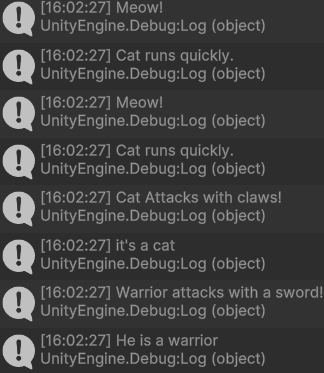
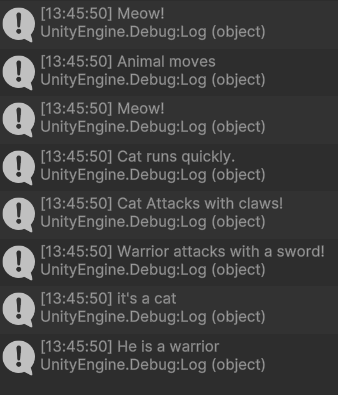
Final Commit for assignment 29

Changed region(s): [[0.0, 0.3834, 1.0, 1.0], [0.0, 0.0, 0.8333, 0.3539]]

diff --git a/Assets/Assignment 29/Part 4/Animal.cs b/Assets/Assignment 29/Part 4/Animal.cs
@@ -1,38 +1,41 @@
  using UnityEngine;
- public class Animal
-    {
-        public virtual void MakeSound()
+ namespace Assignment29
+ {
+    public class Animal
         {
-            Debug.Log("Animal sound");
+            public virtual void MakeSound()
+            {
+                Debug.Log("Animal sound");
+            }
+            public void Move()
+            {
+                Debug.Log("Animal moves");
+            }
         }
-        public void Move()
+        public class Cat : Animal ,ICanFight
         {
-            Debug.Log("Animal moves");
+            public override void MakeSound()
+            {
+                Debug.Log("Meow!");
+            }
+            public new void Move()
+            {
+                Debug.Log("Cat runs quickly.");
+            }
+            public void Attack()
+            {
+                Debug.Log("Cat Attacks with claws!");
+            }
         }
-    }
-    public class Cat : Animal ,ICanFight
-    {
-        public override void MakeSound()
+        public interface ICanFight
         {
-            Debug.Log("Meow!");
+            void Attack();
         }
-        public new void Move()
+        public class Warrior : ICanFight
         {
-            Debug.Log("Cat runs quickly.");
+            public void Attack()
+            {
+                Debug.Log("Warrior attacks with a sword!");
+            }
         }
-        public void Attack()
-        {
-            Debug.Log("Cat Attacks with claws!");
-        }
-    }
-    public interface ICanFight
-    {
-        void Attack();
-    }
-    public class Warrior : ICanFight
-    {
-        public void Attack()
-        {
-            Debug.Log("Warrior attacks with a sword!");
-        }
-    }
+ }

diff --git a/Assets/Assignment 29/Part 6/UnitySpecificScript.cs b/Assets/Assignment 29/Part 6/UnitySpecificScript.cs
@@ -1,0 +1,51 @@
+using UnityEngine;
+
+namespace Assignment29
+{
+    public class UnitySpecificScript : MonoBehaviour
+    {
+        public GameObject joker;
+        public GameObject target;
+        void OnEnable() 
+        {
+            print("GameObject Enabled");
+        }
+        void OnDisable() 
+        {
+            print("GameObject Disabled");
+        }
+        void Start()
+        {
+            print("Game Started!");
+            GameObject targetObject = GameObject.Find("TargetObject");
+            CheckObject(targetObject,"name");
+            GameObject jokerObject = GameObject.FindGameObjectWithTag("Joker");
+            CheckObject(jokerObject,"tag");
+            Light light = GameObject.FindFirstObjectByType<Light>();
+            CheckObject(light.gameObject,"type");
+        }
+        void Update() 
+        {
+            if (Input.GetKeyDown(KeyCode.D))
+            {
+                if (target != null)
+                {
+                    target.SetActive(false);
+                }
+                print("TargetObject Deactivated");
+                
+            }    
+        }
+        void CheckObject(GameObject gameObject , string str)
+        {
+            if (gameObject == null)
+            {
+                print("No " + nameof(gameObject) +" Object found");
+            }
+            else
+            {
+                print("Found object by " + str +": "+gameObject.name);
+            }
+        }
+    } 
+}

diff --git a/Assets/Assignment 29/Part 7/RecursionScript.cs b/Assets/Assignment 29/Part 7/RecursionScript.cs
@@ -1,0 +1,46 @@
+using UnityEngine;
+namespace Assignment29
+{
+    public class RecursionScript : MonoBehaviour
+    {
+        void Start() 
+        {
+            Debug.Log($"used method : {nameof(FibonacciRecursive)}");
+            Debug.Log(FibonacciIterative(10));
+            Debug.Log(FibonacciIterative(30));
+            Debug.Log($"used method : {nameof(FibonacciIterative)}");
+            Debug.Log(FibonacciIterative(10));
+            Debug.Log(FibonacciIterative(30));
+        }
+        int FibonacciRecursive(int n)
+        {
+            if (n <= 0)
+            {
+                return 0;
+            }
+            if (n == 1)
+            {
+                return 1;
+            }
+            return FibonacciRecursive(n-1) + FibonacciRecursive(n-2);
+        }
+        int FibonacciIterative(int n)
+        {
+            int first = 0;
+            int second = 1;
+            int after =  0;
+        
+            for (int i = 2; i <= n; i++)
+            {
+                after = first + second;
+                first = second;
+                second = after;
+            }
+            if (n == 1)
+            {
+                after = 1;
+            }
+            return after;
+        }
+    }
+}

diff --git a/Assets/Assignment 29/Part 3/Utilities.cs b/Assets/Assignment 29/Part 3/Utilities.cs
@@ -1,0 +1,32 @@
+using System;
+
+namespace Assignment29
+{
+    public static class Utilities
+    {
+        public static int Add(params int[] numbers)
+        {
+            int sum = 0;
+            foreach (var num in numbers)
+            {
+                sum += num;
+            }
+            return sum;
+        }
+        public static string RepeatString(this string str, int num)
+        {
+            return Repeat(str,num);
+        }
+        public static string Repeat(string str , int num)
+        {
+            if(str == null)throw new ArgumentNullException("String is null");
+            if(num < 0)throw new ArgumentException("Num can't be smaller than zero");
+            string multiplicationResult = "";
+            for (int i = 0; i < num; i++)
+            {
+                multiplicationResult+= str;
+            }
+            return multiplicationResult;
+        }
+    }
+}

diff --git a/Assets/Assignment 29/Part 5/ExceptionHandeling.cs b/Assets/Assignment 29/Part 5/ExceptionHandeling.cs
@@ -1,0 +1,28 @@
+using System;
+using UnityEngine;
+namespace Assignment29
+{
+    public class ExceptionHandeling : MonoBehaviour
+    {
+        int playerScore = 100;
+        int diviser = 0;
+        void Start() 
+        {
+            try
+            {
+                Debug.Log("Attempting to calculate score multiplier...");
+                int totalScore = playerScore/diviser;
+            }
+            catch(DivideByZeroException)
+            {
+                Debug.Log("Error: Division by zero occurred while calculating score multiplier.");
+            }
+            finally
+            {
+                Debug.Log("Score calculation complete. Cleaning upresources.");
+            }
+        }
+
+    }
+
+}

diff --git a/Assets/Assignment 29/Part 2/GameObject1.cs b/Assets/Assignment 29/Part 2/GameObject1.cs
@@ -1,11 +1,13 @@
+using System;
 using UnityEngine;
 
 namespace Assignment29
 {
-    public class GameObject : MonoBehaviour
+    public class GameObject1 : MonoBehaviour
     {
         CustomObject obj1 = new CustomObject(1,"Ahmed Mo7sen");
         CustomObject obj2 = new CustomObject(2,"Aseel");
+
         private void Start() {
             print(obj1.ToString());
             print($"Are they equal? {obj1 == obj2}");

diff --git a/Assets/Assignment 29/Part 3/UtilitiesManager.cs b/Assets/Assignment 29/Part 3/UtilitiesManager.cs
@@ -1,0 +1,17 @@
+using UnityEngine;
+
+namespace Assignment29
+{
+    public class UtilitiesManager : MonoBehaviour
+    {
+        void Start()
+        {
+            Debug.Log("1,2,6,7");
+            Debug.Log(Utilities.Add(1,2,6,7));
+            string name = "Avdul";
+            int num = 5;
+            Debug.Log(name + ", " + num);
+            Debug.Log(name.RepeatString(5));
+        }
+    }
+}
